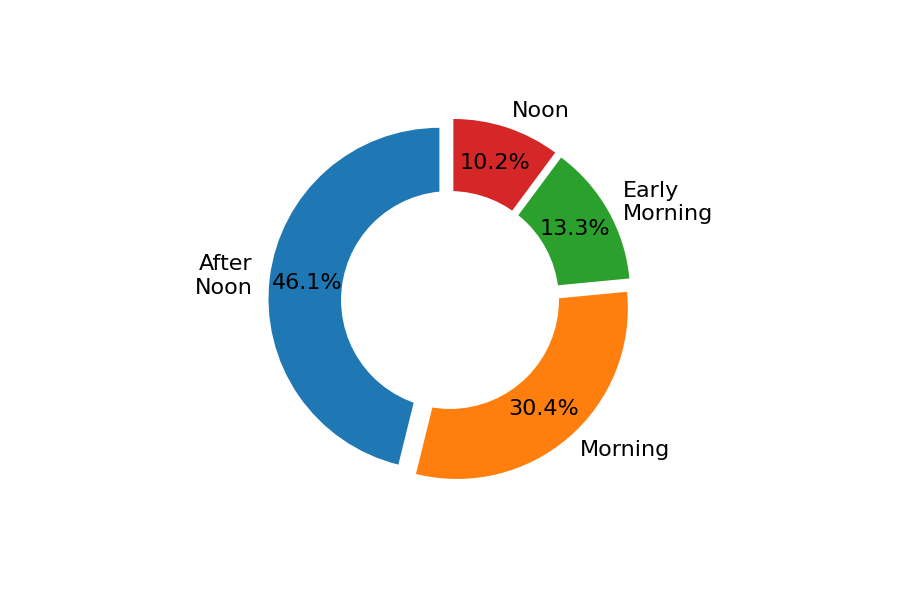
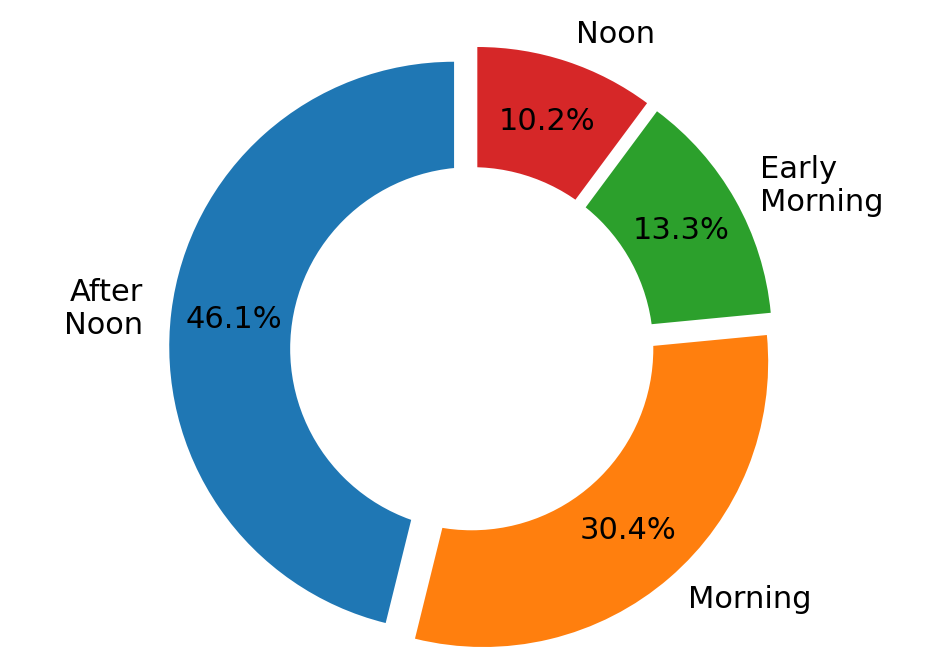
pie chart is fixed

diff --git a/data_analysis.py b/data_analysis.py
@@ -89,15 +89,19 @@ tod_count=list(data_tod.values())
 colors = sns.color_palette(n_colors=4)
 explode = (0.05, 0.05, 0.05, 0.05)
 
-plt.pie(tod_count, colors=colors, labels=tod,
+fig, ax = plt.subplots()
+ax.pie(tod_count, colors=colors, labels=tod,
         autopct='%1.1f%%', pctdistance=0.78,radius=0.8,
-        explode=explode,textprops=dict(size=16), 
-        startangle=90)
+        explode=explode,startangle=90)
+
 centre_circle = plt.Circle((0, 0), 0.51, fc='white')
-fig = plt.gcf()
-fig.gca().add_artist(centre_circle)
-plt.tight_layout()
-plt.savefig("./logs/data_collection/tod_pie.png")
+ax.add_artist(centre_circle)
+fig.subplots_adjust(top=1, bottom=0, right=1, left=0, hspace=0, wspace=0)
+ax.axis('equal')
+ax.margins(0, 0)
+
+plt.savefig("./logs/data_collection/tod_pie.png", pad_inches=0.2,
+    bbox_inches='tight',)
 plt.close()
 
 #Q5. Year-wise Month wise day-wise distance collected
